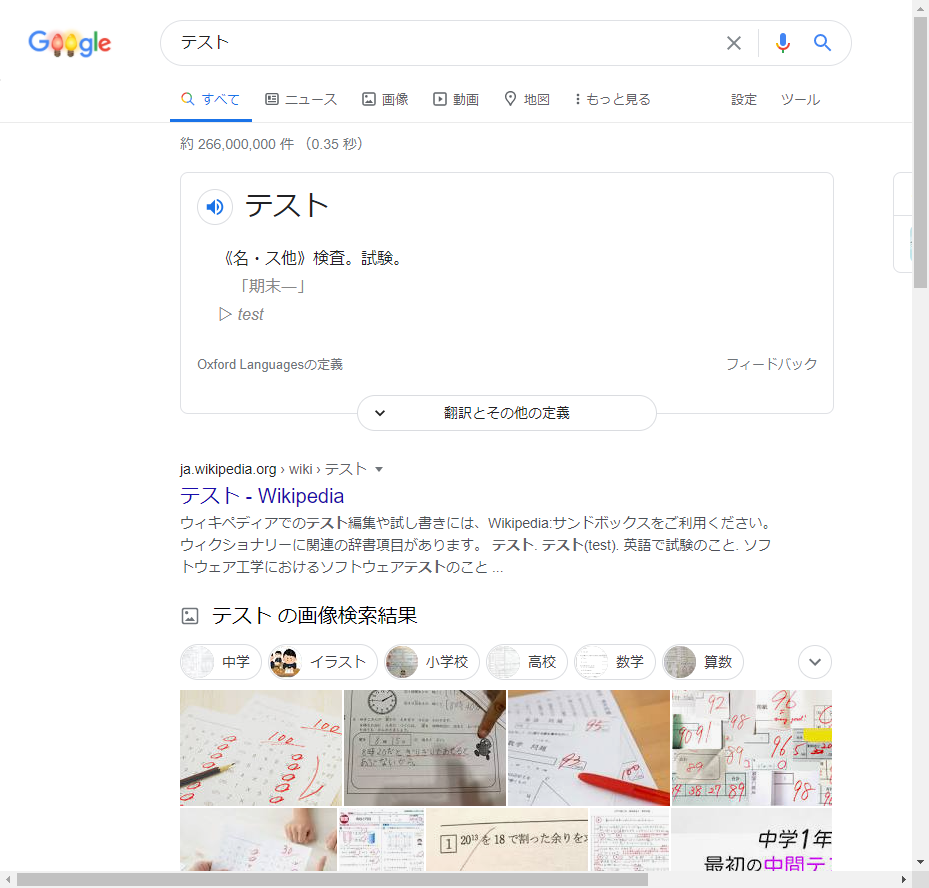
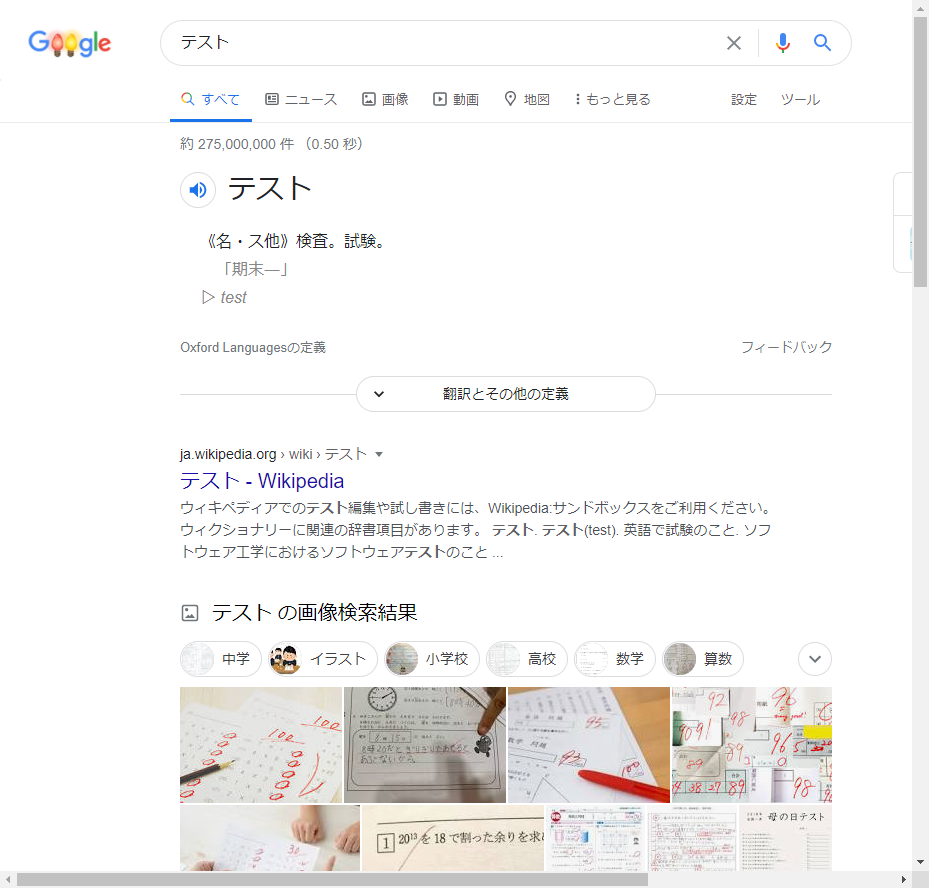
change sorce

diff --git a/src/main.ts b/src/main.ts
@@ -18,18 +18,19 @@ const init = async () => {
 
   // ブラウザ立ち上げ
   const driver = await new Builder().withCapabilities(capabilities).build();
+  await wait(3000);
 
   // Googleへ移動
   await driver.get("https://www.google.com/");
-
-  // ロゴが表示されるまで待つ
-  await driver.wait(until.elementLocated(By.id("hplogo")), 10000);
+  await wait(3000);
 
   // 検索条件に値を入力
   await driver.findElement(By.name("q")).sendKeys("テスト");
+  await wait(3000);
 
   // フォーカスをアウトさせる
   await driver.actions().move({ x: 0, y: 0 }).perform();
+  await wait(3000);
 
   // 検索ボタンを押下
   await driver.findElement(By.name("btnK")).click();
